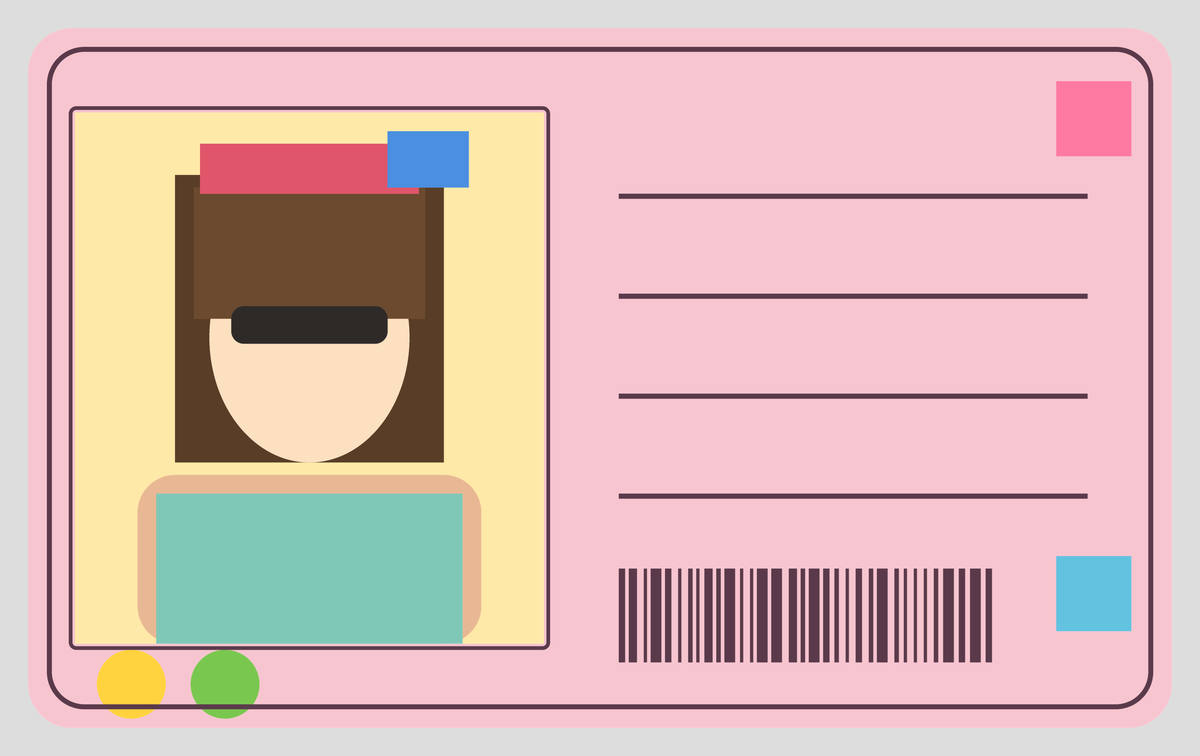
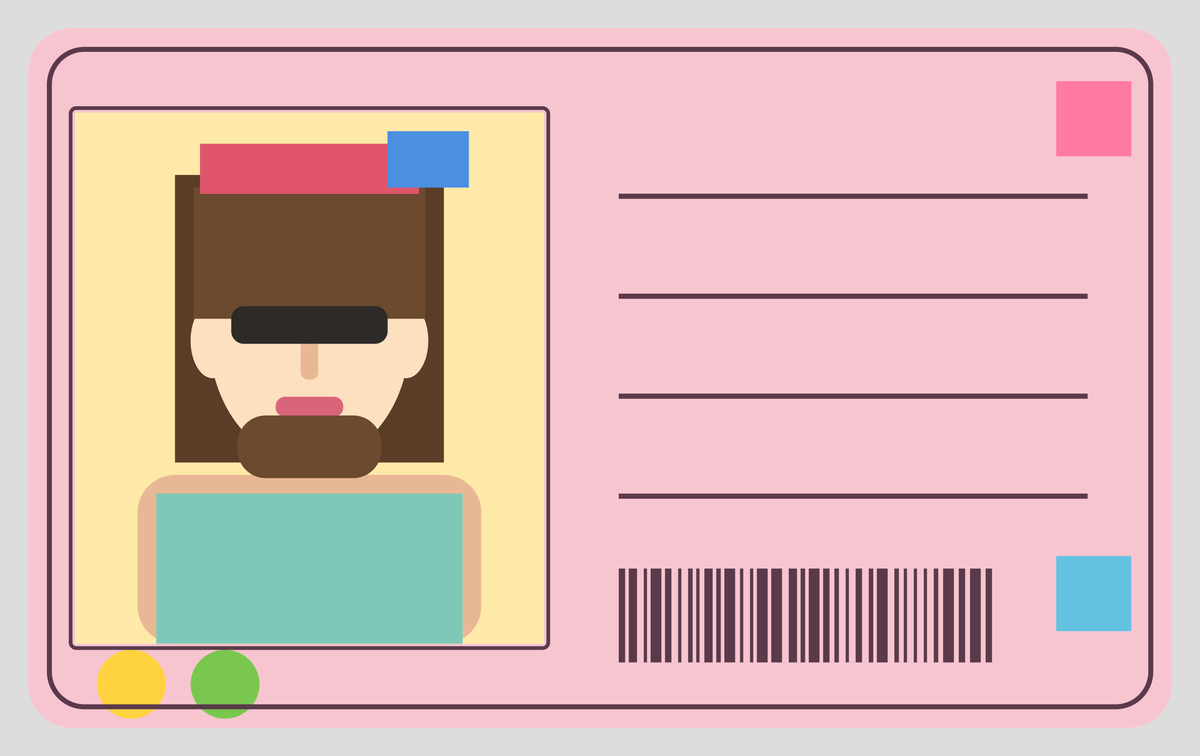
Add more categories.

Changed region(s): [[0.185, 0.4563, 0.3083, 0.6389], [0.3392, 0.4259, 0.37, 0.5172], [0.1542, 0.4259, 0.185, 0.5172]]

diff --git a/scripts/generate_placeholders.py b/scripts/generate_placeholders.py
@@ -28,6 +28,7 @@ OUT_ROOT = REPO_ROOT / "public" / "art" / "layers"  # /art/ not /assets/ (Vite d
 
 TRANSPARENT = (0, 0, 0, 0)
 S = SUPERSAMPLE
+FACE_CX = 990  # horizontal mirror axis (face center) for paired features: ears, eyes, brows
 
 
 def rgba(h: str, a: int = 255) -> tuple[int, int, int, int]:
@@ -41,6 +42,7 @@ def rgba(h: str, a: int = 255) -> tuple[int, int, int, int]:
 #   shape "ellipse":      geom = {"center": (cx, cy), "radii": (rx, ry)}
 #   shape "circle":       geom = {"center": (cx, cy), "r": radius}
 #   shape "chrome":       geom = None  (frame + label lines + barcode; fill = ink)
+#   add "mirror": True to geom to also draw a horizontal mirror across FACE_CX (paired features)
 # Geometry is in 1x canvas pixels; scaled by SUPERSAMPLE at draw time.
 ASSETS = [
     # ---- single-select: two color variants at the SAME position ----
@@ -60,6 +62,19 @@ ASSETS = [
     ("HairFront",     "HairFrontAuburn",    "rect",    {"box": (620, 600, 740, 420)},           "#C24B5A"),
     ("Glasses",       "GlassesBlack",       "rrect",   {"box": (740, 980, 500, 120), "r": 40},  "#2E2A28"),
     ("Glasses",       "GlassesBlue",        "rrect",   {"box": (740, 980, 500, 120), "r": 40},  "#2A6FB0"),
+    # ---- facial features (granular, single-select; "mirror" pairs across FACE_CX) ----
+    ("Ears",  "EarsLight",  "ellipse", {"center": (680, 1090), "radii": (70, 120), "mirror": True}, "#FCE0C0"),
+    ("Ears",  "EarsTan",    "ellipse", {"center": (680, 1090), "radii": (70, 120), "mirror": True}, "#F6CBA6"),
+    ("Eyes",  "EyesBrown",  "ellipse", {"center": (870, 1040), "radii": (55, 38), "mirror": True},  "#5B3A29"),
+    ("Eyes",  "EyesBlue",   "ellipse", {"center": (870, 1040), "radii": (55, 38), "mirror": True},  "#3A6EA5"),
+    ("Brows", "BrowsBrown", "rrect",   {"box": (800, 952, 140, 30), "r": 15, "mirror": True},       "#6B4A2F"),
+    ("Brows", "BrowsBlack", "rrect",   {"box": (800, 952, 140, 30), "r": 15, "mirror": True},       "#2E2A28"),
+    ("Nose",  "NoseLight",  "rrect",   {"box": (962, 1085, 56, 130), "r": 24},                      "#E8B894"),
+    ("Nose",  "NoseTan",    "rrect",   {"box": (962, 1085, 56, 130), "r": 24},                      "#C98E6B"),
+    ("Mouth", "MouthPink",  "rrect",   {"box": (882, 1270, 216, 64), "r": 30},                      "#D9657A"),
+    ("Mouth", "MouthCoral", "rrect",   {"box": (882, 1270, 216, 64), "r": 30},                      "#E0815A"),
+    ("Beard", "BeardBrown", "rrect",   {"box": (760, 1330, 460, 200), "r": 90},                     "#6B4A2F"),
+    ("Beard", "BeardBlack", "rrect",   {"box": (760, 1330, 460, 200), "r": 90},                     "#2E2A28"),
     # ---- multi-select: two options at DIFFERENT positions ----
     ("Headwear",      "HeadwearCapRed",     "rect",    {"box": (640, 460, 700, 160)},           "#E0556A"),
     ("Headwear",      "HeadwearBowBlue",    "rect",    {"box": (1240, 420, 260, 180)},          "#4A8FE0"),
@@ -79,8 +94,14 @@ PREVIEW_ORDER = [
     ("BodyBase", "BodyBaseWarm"),
     ("Clothes", "ClothesTeal"),
     ("HairBack", "HairBackBrown"),
+    ("Ears", "EarsLight"),
     ("Face", "FacePeach"),
     ("HairFront", "HairFrontBrown"),
+    ("Eyes", "EyesBrown"),
+    ("Brows", "BrowsBrown"),
+    ("Nose", "NoseLight"),
+    ("Mouth", "MouthPink"),
+    ("Beard", "BeardBrown"),
     ("Glasses", "GlassesBlack"),
     ("Headwear", "HeadwearCapRed"),
     ("Headwear", "HeadwearBowBlue"),
@@ -92,10 +113,11 @@ PREVIEW_ORDER = [
 ]
 
 
-def draw_shape(d: ImageDraw.ImageDraw, shape: str, geom: dict, fill) -> None:
-    """Draw one primitive on the supersampled canvas (coords scaled by S)."""
+def _draw_primitive(d: ImageDraw.ImageDraw, shape: str, geom: dict, fill, flip: bool) -> None:
     if shape in ("rect", "rrect"):
         x, y, w, h = geom["box"]
+        if flip:
+            x = 2 * FACE_CX - x - w
         box = [x * S, y * S, (x + w) * S, (y + h) * S]
         if shape == "rrect":
             d.rounded_rectangle(box, radius=geom.get("r", 0) * S, fill=fill)
@@ -104,13 +126,24 @@ def draw_shape(d: ImageDraw.ImageDraw, shape: str, geom: dict, fill) -> None:
     elif shape == "ellipse":
         cx, cy = geom["center"]
         rx, ry = geom["radii"]
+        if flip:
+            cx = 2 * FACE_CX - cx
         d.ellipse([(cx - rx) * S, (cy - ry) * S, (cx + rx) * S, (cy + ry) * S], fill=fill)
     elif shape == "circle":
         cx, cy = geom["center"]
         r = geom["r"]
+        if flip:
+            cx = 2 * FACE_CX - cx
         d.ellipse([(cx - r) * S, (cy - r) * S, (cx + r) * S, (cy + r) * S], fill=fill)
     else:
         raise ValueError(f"unknown shape: {shape}")
+
+
+def draw_shape(d: ImageDraw.ImageDraw, shape: str, geom: dict, fill) -> None:
+    """Draw a primitive (scaled by S); if geom['mirror'], also draw its mirror across FACE_CX."""
+    _draw_primitive(d, shape, geom, fill, False)
+    if geom.get("mirror"):
+        _draw_primitive(d, shape, geom, fill, True)
 
 
 def draw_chrome(d: ImageDraw.ImageDraw, ink) -> None:
